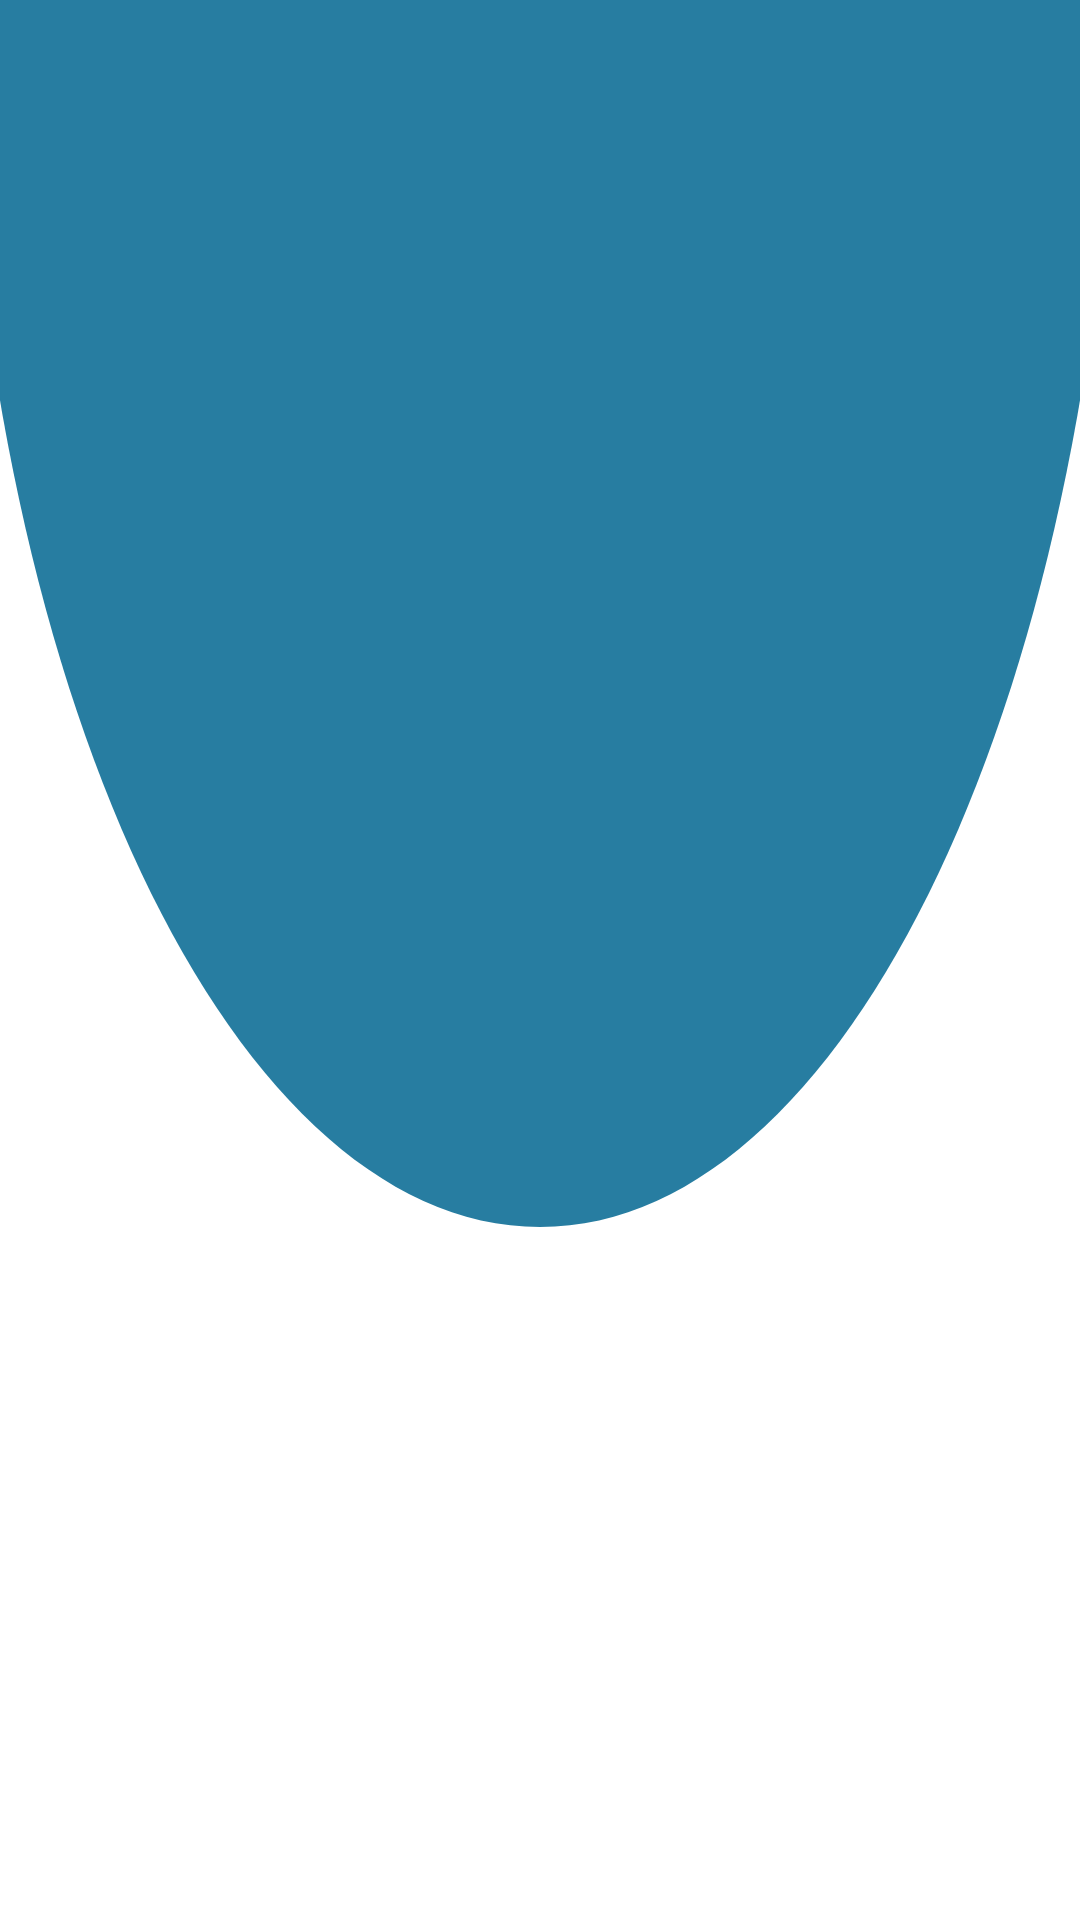
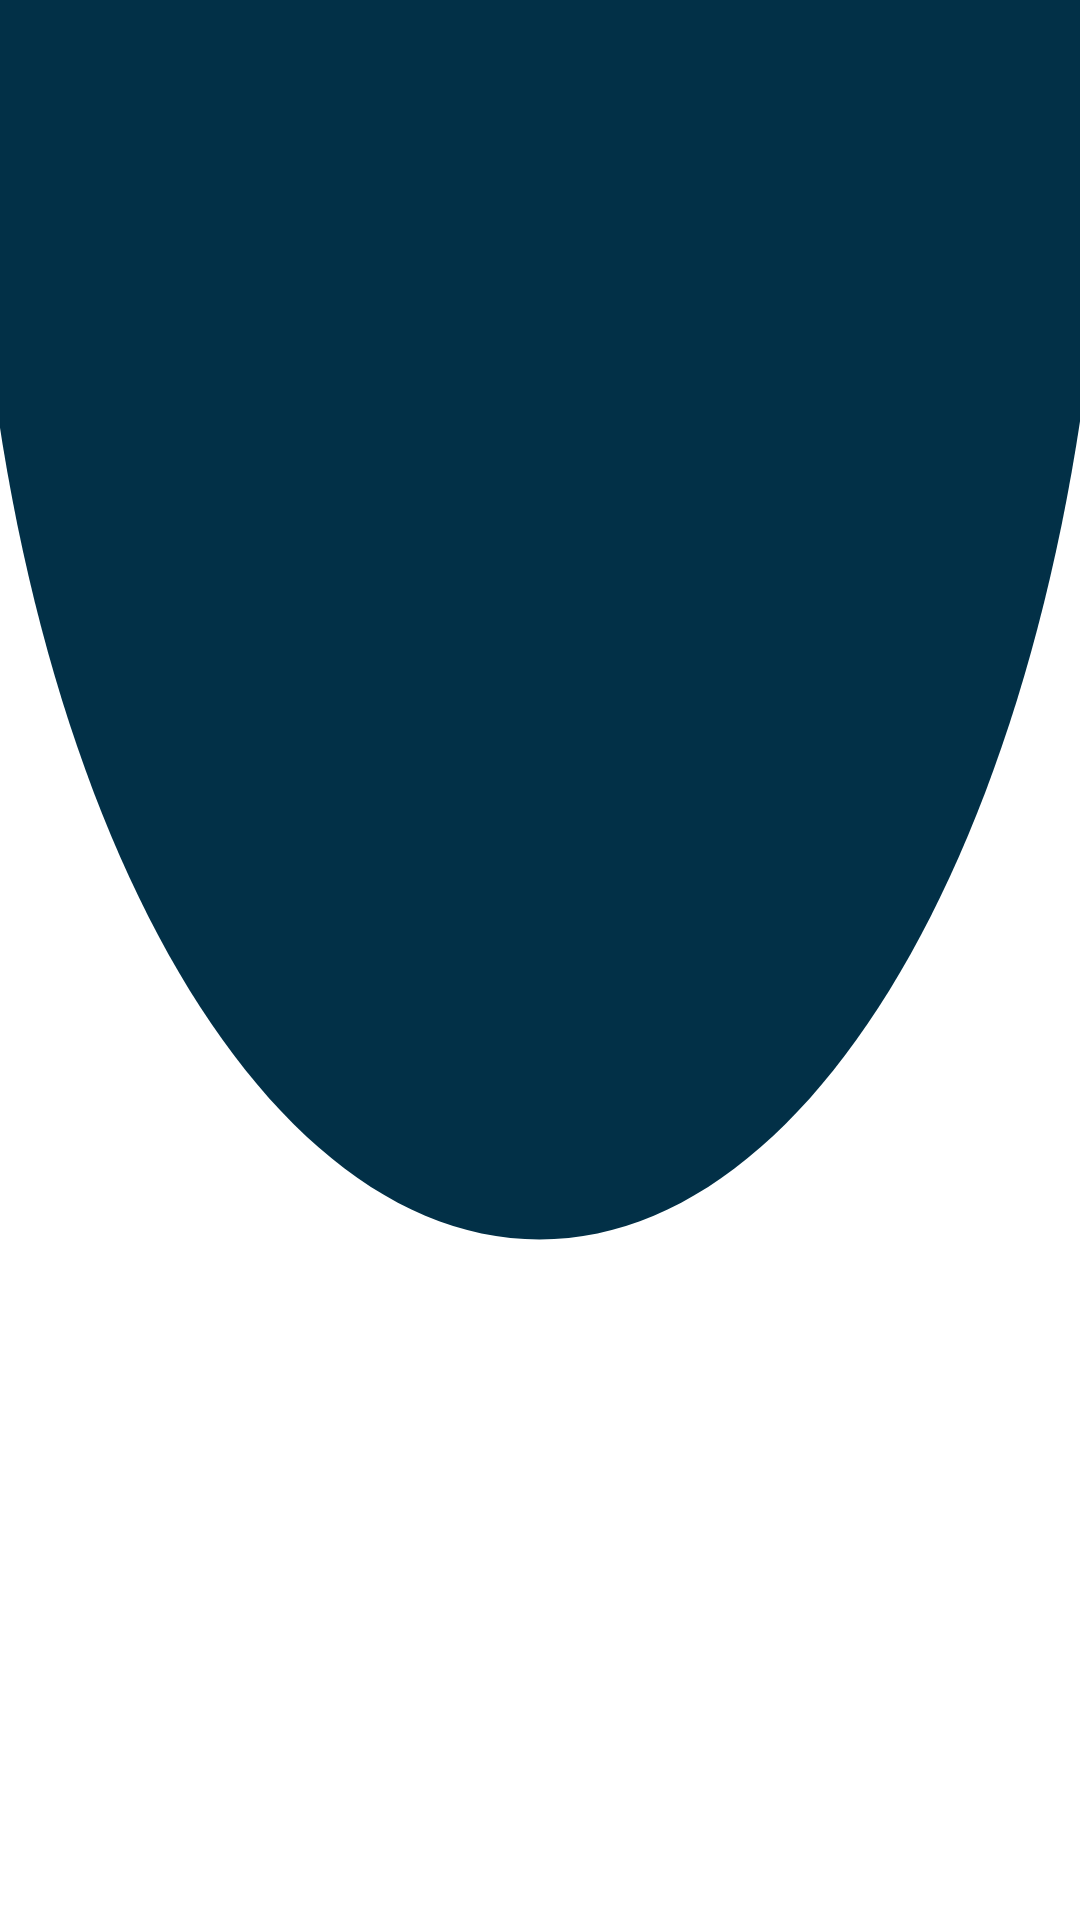
updated login, signup, drawernav

diff --git a/screens/Login.js b/screens/Login.js
@@ -1,6 +1,7 @@
 import React, { useState } from 'react';
 import { View, Text, TextInput, TouchableOpacity, StyleSheet, Alert, ImageBackground  } from 'react-native';
 import { Colors } from '../assets/colors';
+import MaterialIcons from '@expo/vector-icons/MaterialIcons';
 
 export default function LoginScreen({ navigation }) {
     const [email, setEmail] = useState('');
@@ -31,23 +32,29 @@ export default function LoginScreen({ navigation }) {
             <View style={styles.overlay}>
                 <View style={styles.card}>
                     <Text style={styles.title}>Login</Text>
-                    <TextInput
-                        style={styles.input}
-                        placeholder="Email"
-                        value={email}
-                        onChangeText={setEmail}
-                        keyboardType="email-address"
-                        placeholderTextColor="#808080"
-                        autoCapitalize="none"
-                    />
-                    <TextInput
-                        style={styles.input}
-                        placeholder="Password"
-                        value={password}
-                        onChangeText={setPassword}
-                        secureTextEntry
-                        placeholderTextColor="#808080"
-                    />
+                    <View style={styles.inputContainer}>
+                        <MaterialIcons name="email" size={24} style={styles.icon}/>
+                        <TextInput
+                            style={styles.input}
+                            placeholder="Email"
+                            value={email}
+                            onChangeText={setEmail}
+                            keyboardType="email-address"
+                            placeholderTextColor={Colors.grey}
+                            autoCapitalize="none"
+                        />
+                    </View>
+                    <View style={styles.inputContainer}>
+                        <MaterialIcons name="lock" size={24} style={styles.icon}/>
+                        <TextInput
+                            style={styles.input}
+                            placeholder="Password"
+                            value={password}
+                            onChangeText={setPassword}
+                            secureTextEntry
+                            placeholderTextColor={Colors.grey}
+                        />
+                    </View>
                     <TouchableOpacity style={styles.loginButton} onPress={handleLogin}>
                         <Text style={styles.loginButtonText}>LOGIN</Text>
                     </TouchableOpacity>
@@ -81,21 +88,32 @@ const styles = StyleSheet.create({
     title: {
         fontSize: 40,
         marginBottom: 20,
-        color: Colors.primaryBlue,
+        color: Colors.darkBlue,
+    },
+    inputContainer: {
+        position: 'relative',
+        width: '100%',
     },
     input: {
         width: '100%',
         height: 50,
-        borderColor: Colors.primaryBlue,
+        borderColor: Colors.darkBlue,
         borderWidth: 2,
         borderRadius: 20,
         marginTop: 10,
-        paddingLeft: 10,
+        paddingLeft: 40,
+    },
+    icon: {
+        position: 'absolute',
+        left: 12,
+        top: 22,
+        color: Colors.darkBlue,
+        size: 24,
     },
     loginButton: {
         width: '100%',
         height: 50,
-        backgroundColor: Colors.primaryBlue,
+        backgroundColor: Colors.darkBlue,
         borderRadius: 20,
         justifyContent: 'center',
         alignItems: 'center',
@@ -108,6 +126,6 @@ const styles = StyleSheet.create({
     },
     link: {
         marginTop: 20,
-        color: Colors.primaryBlue,
+        color: Colors.darkBlue,
     },
 });

diff --git a/screens/SignUp.js b/screens/SignUp.js
@@ -29,9 +29,9 @@ export default function SignUpScreen({ navigation }) {
                             placeholder="First Name"
                             value={firstName}
                             onChangeText={setFirstName}
-                            placeholderTextColor="#808080"
+                            placeholderTextColor={Colors.grey}
                         />
-                    /</View>
+                    </View>
                     <View style={styles.inputContainer}>
                         <MaterialIcons name="person" size={24} style={styles.icon}/>
                         <TextInput
@@ -39,7 +39,7 @@ export default function SignUpScreen({ navigation }) {
                             placeholder="Last Name"
                             value={lastName}
                             onChangeText={setLastName}
-                            placeholderTextColor="#808080"
+                            placeholderTextColor={Colors.grey}
                         />
                     </View>
                     <View style={styles.inputContainer}>
@@ -50,7 +50,7 @@ export default function SignUpScreen({ navigation }) {
                             value={email}
                             onChangeText={setEmail}
                             keyboardType="email-address"
-                            placeholderTextColor="#808080"
+                            placeholderTextColor={Colors.grey}
                             autoCapitalize="none"
                         />
                     </View>
@@ -62,7 +62,7 @@ export default function SignUpScreen({ navigation }) {
                             value={password}
                             onChangeText={setPassword}
                             secureTextEntry
-                            placeholderTextColor="#808080"
+                            placeholderTextColor={Colors.grey}
                         />
                     </View>
                     <View style={styles.inputContainer}>
@@ -73,7 +73,7 @@ export default function SignUpScreen({ navigation }) {
                             value={confirmPassword}
                             onChangeText={setConfirmPassword}
                             secureTextEntry
-                            placeholderTextColor="#808080"
+                            placeholderTextColor={Colors.grey}
                         />
                     </View>
                     <TouchableOpacity style={styles.signupButton} onPress={handleSignUp}>
@@ -109,7 +109,7 @@ const styles = StyleSheet.create({
     title: {
         fontSize: 40,
         marginBottom: 20,
-        color: Colors.primaryBlue,
+        color: Colors.darkBlue,
     },
     inputContainer: {
         position: 'relative',
@@ -118,7 +118,7 @@ const styles = StyleSheet.create({
     input: {
         width: '100%',
         height: 50,
-        borderColor: Colors.primaryBlue,
+        borderColor: Colors.darkBlue,
         borderWidth: 2,
         borderRadius: 20,
         marginTop: 10,
@@ -134,7 +134,7 @@ const styles = StyleSheet.create({
     signupButton: {
         width: '100%',
         height: 50,
-        backgroundColor: Colors.primaryBlue,
+        backgroundColor: Colors.darkBlue,
         borderRadius: 20,
         justifyContent: 'center',
         alignItems: 'center',
@@ -146,6 +146,6 @@ const styles = StyleSheet.create({
     },
     loginText: {
         marginTop: 20,
-        color: Colors.primaryBlue,
+        color: Colors.darkBlue,
     },
 });

diff --git a/navigation/DrawerNavigator.js b/navigation/DrawerNavigator.js
@@ -1,5 +1,7 @@
+import React from 'react';
+import { View, Text, StyleSheet, Image } from 'react-native';
+import { createDrawerNavigator, DrawerContentScrollView, DrawerItemList } from '@react-navigation/drawer';
 import MaterialIcons from '@expo/vector-icons/MaterialIcons';
-import { createDrawerNavigator} from '@react-navigation/drawer';
 import { Colors } from '../assets/colors';
 
 // Import bottom tabs
@@ -12,10 +14,30 @@ import SignOut from '../screens/SignOut';
 
 const Drawer = createDrawerNavigator();
 
+function CustomDrawerContent(props) {
+    return (
+        <DrawerContentScrollView {...props}>
+            {/* Profile Section */}
+            <View style={styles.profileSection}>
+                <Image
+                    source={require('../assets/icon.png') } // Profile picture
+                    style={styles.profileImage}
+                />
+                <Text style={styles.profileName}>Test Name</Text>
+                <Text style={styles.profileEmail}>email@gmail.com</Text>
+            </View>
+
+            {/* Navigation Items */}
+            <DrawerItemList {...props} />
+        </DrawerContentScrollView>
+    );
+}
+
 export default function DrawerNavigator() {
     return (
         <Drawer.Navigator 
         initialRouteName="Dashboard"
+        drawerContent={(props) => <CustomDrawerContent {...props} />}
         screenOptions={{
             headerStyle: {
                 backgroundColor: Colors.darkBlue,
@@ -29,7 +51,7 @@ export default function DrawerNavigator() {
             drawerInactiveTintColor: Colors.greyBlue,
         }}>
             <Drawer.Screen 
-            name="MyAccount" 
+            name="My Account" 
             component={MyAccount}
             options={{
                 drawerIcon: ({}) => (
@@ -71,3 +93,28 @@ export default function DrawerNavigator() {
         </Drawer.Navigator>
     );
 }
+
+const styles = StyleSheet.create({
+    profileSection: {
+        alignItems: 'center',
+        paddingVertical: 20,
+        backgroundColor: Colors.darkBlue,
+        borderBottomWidth: 1,
+        borderBottomColor: Colors.greyBlue,
+    },
+    profileImage: {
+        width: 80,
+        height: 80,
+        borderRadius: 40,
+        marginBottom: 10,
+    },
+    profileName: {
+        fontSize: 18,
+        color: Colors.accentYellow,
+        fontWeight: 'bold',
+    },
+    profileEmail: {
+        fontSize: 14,
+        color: Colors.greyBlue,
+    },
+});
